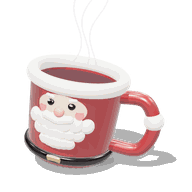
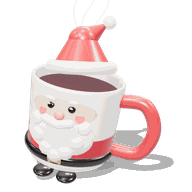
Tassen näher am Fab-Look: Weihnachtsmütze, Mantel und Stiefel, dazu die Norweger-Tasse
Claude-Session: https://claude.ai/code/session_01WoE1mnUy2yR6uV7JXndHMv

Changed region(s): [[0.125, 0.125, 0.9375, 0.9688]]

diff --git a/components/WinterCup.tsx b/components/WinterCup.tsx
@@ -9,8 +9,8 @@ import { asset } from '../lib/asset';
  *  Glasierte Keramik (PBR mit Klarlack) in einer Studio-Lichtumgebung, weicher Schattenwurf auf einer unsichtbaren Fläche.
  *  classic: die "26 Bielefeld"-Tasse · tanne: Tannentasse mit Schneehaube · eisbaer: Eisbär mit Ohren und Gesicht
  *  zucker: Zuckerstangen-Tasse mit Streifenhenkel · schneemann: Schneemann mit Möhrennase und Schal
- *  weihnachtsmann: rote Mütze mit Fellrand, Gesicht, Rauschebart und Gürtel · pinguin: Pinguin mit Bauchfleck, Schnabel, Flügeln und Füßen */
-export type CupVariant = 'classic' | 'tanne' | 'eisbaer' | 'zucker' | 'schneemann' | 'weihnachtsmann' | 'pinguin';
+ *  weihnachtsmann: Mütze auf dem Rand, Gesicht, Rauschebart, Mantel mit Gürtel und Stiefel · pinguin: Pinguin mit Bauchfleck, Schnabel, Flügeln und Füßen */
+export type CupVariant = 'classic' | 'tanne' | 'eisbaer' | 'zucker' | 'schneemann' | 'weihnachtsmann' | 'pinguin' | 'norweger';
 
 function canvasTexture(w: number, h: number, draw: (c: CanvasRenderingContext2D) => void) {
   const canvas = document.createElement('canvas'); canvas.width = w; canvas.height = h;
@@ -69,7 +69,7 @@ export default function WinterCup({ variant = 'classic' }: { variant?: CupVarian
     const body: Record<CupVariant, THREE.Material> = {
       classic: new THREE.MeshPhysicalMaterial({ color: 0x86132f, roughness: .19, metalness: .05, clearcoat: 1, clearcoatRoughness: .12 }),
       tanne: toon(0x1f6a45), eisbaer: toon(0xf2f6fb, undefined, .38), zucker: toon(0xffffff, stripes('#fff6f3', '#d92c46', 5)), schneemann: toon(0xf7f9fc, undefined, .4),
-      weihnachtsmann: toon(0x8c0816, undefined, .3), pinguin: toon(0x101828, undefined, .28),
+      weihnachtsmann: toon(0xf7f4f1, undefined, .32), norweger: toon(0xb3121f, undefined, .3), pinguin: toon(0x101828, undefined, .28),
     };
     const ceramic = body[variant];
     const outer = new THREE.SplineCurve([[0, -.78], [.5, -.78], [.64, -.75], [.72, -.64], [.76, -.3], [.79, .3], [.805, .66]].map(([x, y]) => new THREE.Vector2(x, y))).getPoints(28);
@@ -79,7 +79,7 @@ export default function WinterCup({ variant = 'classic' }: { variant?: CupVarian
     mug.add(new THREE.Mesh(new THREE.LatheGeometry(profile, 128), ceramic));
     const handleCurve = new THREE.CatmullRomCurve3([new THREE.Vector3(.72, .48, 0), new THREE.Vector3(1.2, .5, 0), new THREE.Vector3(1.42, .1, 0), new THREE.Vector3(1.25, -.36, 0), new THREE.Vector3(.74, -.42, 0)]);
     const handleMat = variant === 'zucker' ? toon(0xffffff, Object.assign(stripes('#ffffff', '#e2364d', 3), { wrapS: THREE.RepeatWrapping, repeat: new THREE.Vector2(6, 1) }))
-      : variant === 'tanne' ? toon(0x8a5a3a) : ceramic;
+      : variant === 'tanne' ? toon(0x8a5a3a) : variant === 'weihnachtsmann' ? toon(0xc0182a, undefined, .3) : ceramic;
     mug.add(new THREE.Mesh(new THREE.TubeGeometry(handleCurve, 80, variant === 'zucker' ? .13 : .115, 24, false), handleMat));
     const drink = variant === 'eisbaer' ? 0x5a3020 : 0x3e0715;
     const liquid = new THREE.Mesh(new THREE.CircleGeometry(.715, 96), new THREE.MeshStandardMaterial({ color: drink, roughness: .22, metalness: 0, envMapIntensity: .25 }));
@@ -102,6 +102,22 @@ export default function WinterCup({ variant = 'classic' }: { variant?: CupVarian
       d.position.y = .04; mug.add(d); return d;
     };
     const fluff = (color = 0xfffbf7) => new THREE.MeshPhysicalMaterial({ color, roughness: .95, sheen: 1, sheenColor: new THREE.Color(0xffffff), sheenRoughness: .5 });
+    // Weihnachtsmütze schräg hinten auf dem Rand: gebogener Kegel, Fellrand, Bommel
+    const santaHat = (fur: THREE.Material) => {
+      const hat = new THREE.Group(), red = toon(0xc0182a, undefined, .35);
+      const lower = new THREE.Mesh(new THREE.CylinderGeometry(.27, .56, .5, 48), red); lower.position.y = .25; hat.add(lower);
+      // obere Hälfte kippt weich nach vorne über
+      const fold = new THREE.Group(); fold.position.y = .48; fold.rotation.z = -.95; hat.add(fold);
+      const joint = new THREE.Mesh(new THREE.SphereGeometry(.27, 32, 20), red); fold.add(joint);
+      const upper = new THREE.Mesh(new THREE.ConeGeometry(.27, .62, 40), red); upper.position.y = .3; fold.add(upper);
+      const tip = new THREE.Mesh(new THREE.SphereGeometry(.13, 20, 16), fur); tip.position.y = .62; fold.add(tip);
+      const band = new THREE.Mesh(new THREE.TorusGeometry(.56, .12, 20, 64), fur); band.rotation.x = Math.PI / 2; hat.add(band);
+      hat.position.set(-.1, .8, -.42); hat.rotation.set(-.28, .5, .18); hat.scale.setScalar(.95); mug.add(hat);
+      return tip;
+    };
+    const boots = (mat: THREE.Material) => {
+      for (const s of [-1, 1]) { const f = new THREE.Mesh(new THREE.SphereGeometry(.17, 20, 14), mat); f.position.copy(onWall(s * .3, -.8, .7)); f.scale.set(1, .42, 1.25); mug.add(f); }
+    };
     const smile = (y: number) => {
       const m = new THREE.Mesh(new THREE.TorusGeometry(.07, .016, 8, 20, Math.PI), black);
       m.position.copy(onWall(0, y, .805)); m.rotation.z = Math.PI; mug.add(m);
@@ -172,34 +188,32 @@ export default function WinterCup({ variant = 'classic' }: { variant?: CupVarian
     }
 
     if (variant === 'weihnachtsmann') {
-      // Fellrand der Mütze am Rand, Bommel am Henkel
+      // Weiß glasierte Tasse, unten der rote Mantel mit Gürtel, oben Gesicht und großer Bart, dazu die Mütze schräg auf dem Rand
       const fur = fluff();
-      const band = new THREE.Mesh(new THREE.TorusGeometry(.79, .1, 20, 120), fur); band.rotation.x = Math.PI / 2; band.position.y = .7; band.scale.z = 1.25; mug.add(band);
-      const pom = new THREE.Mesh(new THREE.SphereGeometry(.17, 24, 18), fur); pom.position.set(1.4, .2, 0); mug.add(pom);
-      charm = pom;
-      // Gesicht als Aufdruck, darauf Augen, Nase, Bart und Schnurrbart als Formen
-      decal(c => { c.fillStyle = '#f6c9a8'; c.beginPath(); c.ellipse(256, 120, 175, 112, 0, 0, Math.PI * 2); c.fill(); }, 1.6);
+      decal(c => {
+        c.fillStyle = '#c0182a'; c.fillRect(0, 330, 512, 182);
+        c.fillStyle = '#f6c9a8'; c.beginPath(); c.ellipse(256, 108, 62, 96, 0, 0, Math.PI * 2); c.fill();
+      }, Math.PI * 2 - .35);
       for (const s of [-1, 1]) {
-        const eye = new THREE.Mesh(new THREE.SphereGeometry(.06, 18, 14), black); eye.position.copy(onWall(s * .22, .42, .8)); eye.scale.z = .5; eye.lookAt(eye.position.clone().multiplyScalar(2)); mug.add(eye);
-        const shine = new THREE.Mesh(new THREE.SphereGeometry(.018, 10, 8), white); shine.position.copy(onWall(s * .22 - .025, .445, .835)); mug.add(shine);
+        const eye = new THREE.Mesh(new THREE.SphereGeometry(.06, 18, 14), black); eye.position.copy(onWall(s * .22, .44, .8)); eye.scale.z = .5; eye.lookAt(eye.position.clone().multiplyScalar(2)); mug.add(eye);
+        const shine = new THREE.Mesh(new THREE.SphereGeometry(.018, 10, 8), white); shine.position.copy(onWall(s * .22 - .025, .465, .835)); mug.add(shine);
         const cheek = new THREE.Mesh(new THREE.CircleGeometry(.075, 24), new THREE.MeshBasicMaterial({ color: 0xff7f8f, transparent: true, opacity: .6, depthWrite: false }));
-        cheek.position.copy(onWall(s * .4, .28, .806)); cheek.lookAt(cheek.position.clone().multiplyScalar(2)); mug.add(cheek);
-        const brow = new THREE.Mesh(new THREE.CapsuleGeometry(.03, .1, 4, 10), fur); brow.position.copy(onWall(s * .23, .52, .815)); brow.rotation.set(0, s * -.22, Math.PI / 2 + s * .25); mug.add(brow);
+        cheek.position.copy(onWall(s * .4, .3, .806)); cheek.lookAt(cheek.position.clone().multiplyScalar(2)); mug.add(cheek);
+        const brow = new THREE.Mesh(new THREE.CapsuleGeometry(.032, .11, 4, 10), fur); brow.position.copy(onWall(s * .23, .55, .815)); brow.rotation.set(0, s * -.22, Math.PI / 2 + s * .25); mug.add(brow);
       }
-      const nose = new THREE.Mesh(new THREE.SphereGeometry(.085, 20, 16), toon(0xf08a7a)); nose.position.copy(onWall(0, .3, .85)); nose.scale.z = .7; mug.add(nose);
-      // Bart: viele weiche Kugeln unten an der Vorderseite
-      const beard = new THREE.Group();
-      for (let i = 0; i < 18; i++) {
-        // drei Reihen dicker Locken, nach unten schmaler, außen kleiner
-        const row = i % 3, k = Math.floor(i / 3) / 5 - .5, y = .1 - row * .17, w = .62 - row * .17;
-        const r = .155 - Math.abs(k) * .06 - row * .01;
-        const b = new THREE.Mesh(new THREE.SphereGeometry(r, 18, 14), fur); b.position.copy(onWall(k * w * 1.9, y, .8)); b.lookAt(b.position.clone().setY(y).multiplyScalar(2)); b.scale.z = .55; beard.add(b);
+      const nose = new THREE.Mesh(new THREE.SphereGeometry(.085, 20, 16), toon(0xf08a7a)); nose.position.copy(onWall(0, .32, .85)); nose.scale.z = .7; mug.add(nose);
+      // Bart: eine große weiche Form vorne, unten spitz, mit wenigen Locken am Rand
+      const beard = new THREE.Mesh(new THREE.SphereGeometry(.5, 40, 28, 0, Math.PI * 2, 0, Math.PI), fur);
+      beard.geometry.translate(0, -.12, 0); beard.position.copy(onWall(0, .02, .62)); beard.scale.set(1.12, .78, .42); mug.add(beard);
+      for (const [a, y, r] of [[-.52, .14, .12], [.52, .14, .12], [-.42, -.12, .13], [.42, -.12, .13], [-.2, -.32, .13], [.2, -.32, .13], [0, -.4, .13]]) {
+        const b = new THREE.Mesh(new THREE.SphereGeometry(r, 18, 14), fur); b.position.copy(onWall(a, y, .82)); b.lookAt(b.position.clone().setY(y).multiplyScalar(2)); b.scale.z = .6; mug.add(b);
       }
-      mug.add(beard);
-      for (const s of [-1, 1]) { const m = new THREE.Mesh(new THREE.CapsuleGeometry(.07, .18, 6, 14), fur); m.position.copy(onWall(s * .13, .19, .87)); m.rotation.set(0, s * -.12, Math.PI / 2 + s * .35); mug.add(m); }
-      // Gürtel mit goldener Schnalle
-      const belt = new THREE.Mesh(new THREE.TorusGeometry(.765, .05, 10, 100), black); belt.rotation.x = Math.PI / 2; belt.position.y = -.56; belt.scale.z = 1.6; mug.add(belt);
-      const buckle = new THREE.Mesh(new RoundedBoxGeometry(.24, .17, .05, 2, .02), gold); buckle.position.copy(onWall(0, -.56, .8)); buckle.lookAt(buckle.position.clone().setY(-.56).multiplyScalar(2)); mug.add(buckle);
+      for (const s of [-1, 1]) { const m = new THREE.Mesh(new THREE.CapsuleGeometry(.075, .19, 6, 14), fur); m.position.copy(onWall(s * .13, .21, .9)); m.rotation.set(0, s * -.12, Math.PI / 2 + s * .35); mug.add(m); }
+      // Gürtel mit goldener Schnalle, schwarze Stiefel
+      const belt = new THREE.Mesh(new THREE.TorusGeometry(.765, .05, 10, 100), black); belt.rotation.x = Math.PI / 2; belt.position.y = -.5; belt.scale.z = 1.6; mug.add(belt);
+      const buckle = new THREE.Mesh(new RoundedBoxGeometry(.24, .17, .05, 2, .02), gold); buckle.position.copy(onWall(0, -.5, .8)); buckle.lookAt(buckle.position.clone().setY(-.5).multiplyScalar(2)); mug.add(buckle);
+      boots(black);
+      charm = santaHat(fur);
     }
     if (variant === 'pinguin') {
       // weißer Bauch- und Gesichtsfleck als Aufdruck
@@ -213,14 +227,31 @@ export default function WinterCup({ variant = 'classic' }: { variant?: CupVarian
       const beak = new THREE.Mesh(new THREE.ConeGeometry(.08, .2, 18), orange); beak.position.copy(onWall(0, .17, .86)); beak.rotation.x = Math.PI / 2; beak.scale.set(1.3, 1, .8); mug.add(beak);
       // kleine Flügel an den Seiten, Füße vorne am Boden
       for (const s of [-1, 1]) {
-        const wing = new THREE.Mesh(new THREE.SphereGeometry(.26, 22, 16), ceramic); wing.position.copy(onWall(s * 1.25, -.12, .74)); wing.scale.set(.32, 1, .62); wing.rotation.z = s * -.25; wing.lookAt(wing.position.clone().setY(-.12).multiplyScalar(2)); wing.rotateZ(s * .3); mug.add(wing);
+        const wing = new THREE.Mesh(new THREE.SphereGeometry(.26, 22, 16), ceramic); wing.position.copy(onWall(s * 1.3, -.05, .8)); wing.scale.set(.3, 1.05, .6); wing.rotation.z = s * -.25; wing.lookAt(wing.position.clone().setY(-.12).multiplyScalar(2)); wing.rotateZ(s * .3); mug.add(wing);
         const foot = new THREE.Mesh(new THREE.SphereGeometry(.16, 20, 14), orange); foot.position.copy(onWall(s * .27, -.82, .72)); foot.scale.set(1, .34, 1.2); mug.add(foot);
       }
-      // rote Bommelmütze als Rand
-      const red = toon(0xd8344a, Object.assign(stripes('#d8344a', '#b8243a', 10), { wrapS: THREE.RepeatWrapping, repeat: new THREE.Vector2(10, 1) }), .7);
-      const cap = new THREE.Mesh(new THREE.TorusGeometry(.785, .085, 18, 120), red); cap.rotation.x = Math.PI / 2; cap.position.y = .72; cap.scale.z = 1.2; mug.add(cap);
-      const pom = new THREE.Mesh(new THREE.SphereGeometry(.15, 22, 16), fluff()); pom.position.copy(onWall(-.9, .86, .74)); mug.add(pom);
-      charm = pom;
+      charm = santaHat(fluff());
+    }
+
+    if (variant === 'norweger') {
+      // Norweger-Muster: Bordüren, Zackenreihen und Schneeflocken als Glasur rundherum
+      const knit = canvasTexture(1024, 256, c => {
+        c.fillStyle = '#b3121f'; c.fillRect(0, 0, 1024, 256); c.fillStyle = '#fff6ee';
+        const px = 8;
+        for (let x = 0; x < 1024; x += px) { // Zickzack oben und unten
+          const z = Math.abs(((x / px) % 8) - 4);
+          c.fillRect(x, 26 + z * px / 2, px, px); c.fillRect(x, 214 - z * px / 2, px, px);
+        }
+        c.fillRect(0, 10, 1024, 6); c.fillRect(0, 240, 1024, 6);
+        for (let i = 0; i < 8; i++) { // Schneeflocken
+          const cx = 64 + i * 128, cy = 128;
+          for (let k = -4; k <= 4; k++) { c.fillRect(cx + k * px - px / 2, cy - px / 2, px, px); c.fillRect(cx - px / 2, cy + k * px - px / 2, px, px); if (Math.abs(k) < 4 && k) { c.fillRect(cx + k * px - px / 2, cy + k * px - px / 2, px, px); c.fillRect(cx + k * px - px / 2, cy - k * px - px / 2, px, px); } }
+        }
+        for (let i = 0; i < 8; i++) { c.fillRect(128 + i * 128 - px / 2, 124, px, px); c.fillRect(128 + i * 128 - px * 1.5, 88, px, px); c.fillRect(128 + i * 128 + px / 2, 160, px, px); }
+      });
+      const wall = new THREE.Mesh(new THREE.CylinderGeometry(.801, .75, 1.1, 96, 1, true), new THREE.MeshPhysicalMaterial({ map: knit, roughness: .3, clearcoat: .9, clearcoatRoughness: .12, polygonOffset: true, polygonOffsetFactor: -2 }));
+      wall.position.y = .04; mug.add(wall);
+      const lip = new THREE.Mesh(new THREE.TorusGeometry(.77, .03, 12, 80), toon(0xfff6ee)); lip.rotation.x = Math.PI / 2; lip.position.y = .755; mug.add(lip);
     }
 
     // Dampf und Schatten

diff --git a/lib/themes.ts b/lib/themes.ts
@@ -71,5 +71,6 @@ export const cups: { id: CupVariant; name: string }[] = [
   { id: 'schneemann', name: 'Schneemann' },
   { id: 'weihnachtsmann', name: 'Weihnachtsmann' },
   { id: 'pinguin', name: 'Pinguin' },
+  { id: 'norweger', name: 'Norweger' },
 ];
 export const isCupChoice = (v: unknown): v is CupChoice => v === 'auto' || cups.some(c => c.id === v);
